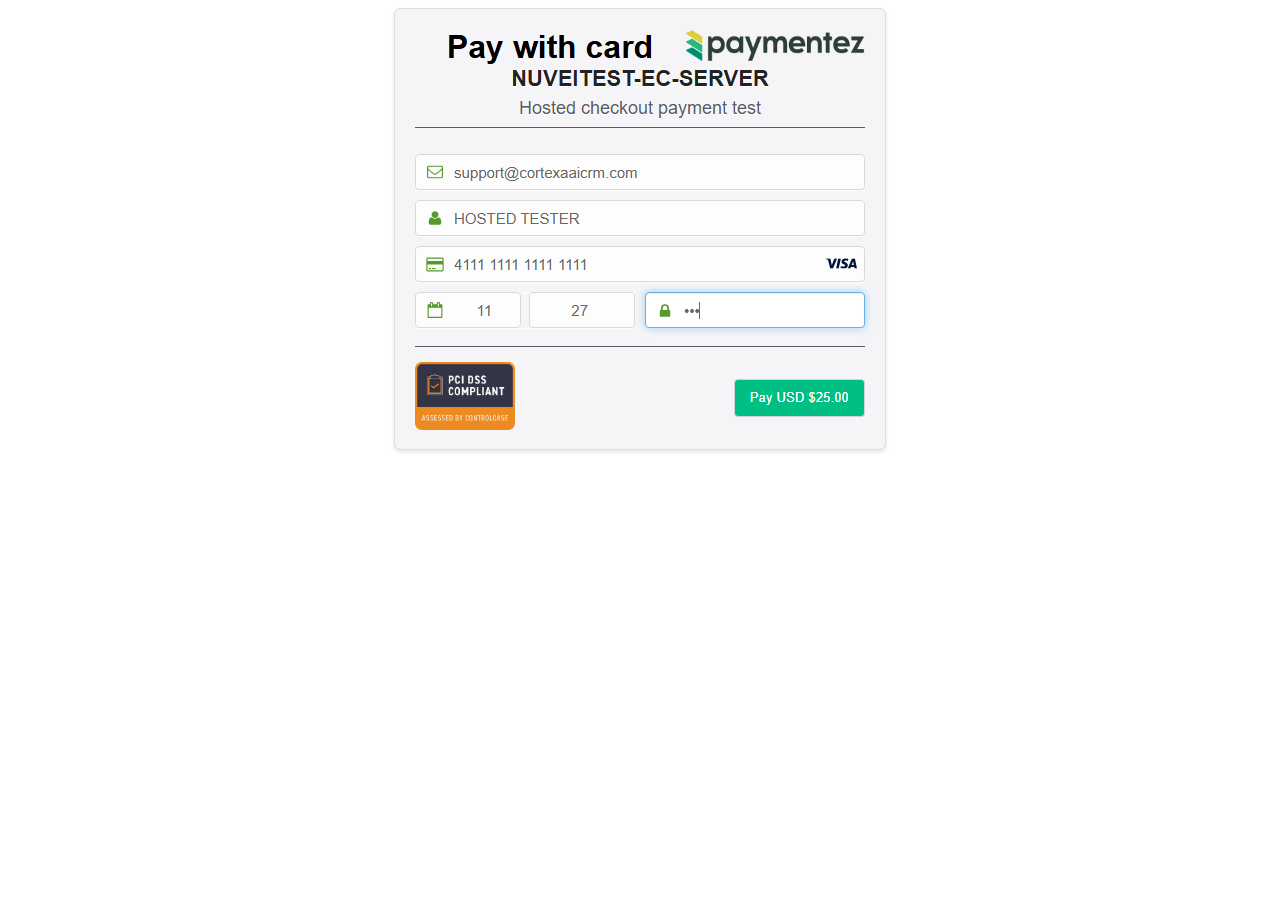
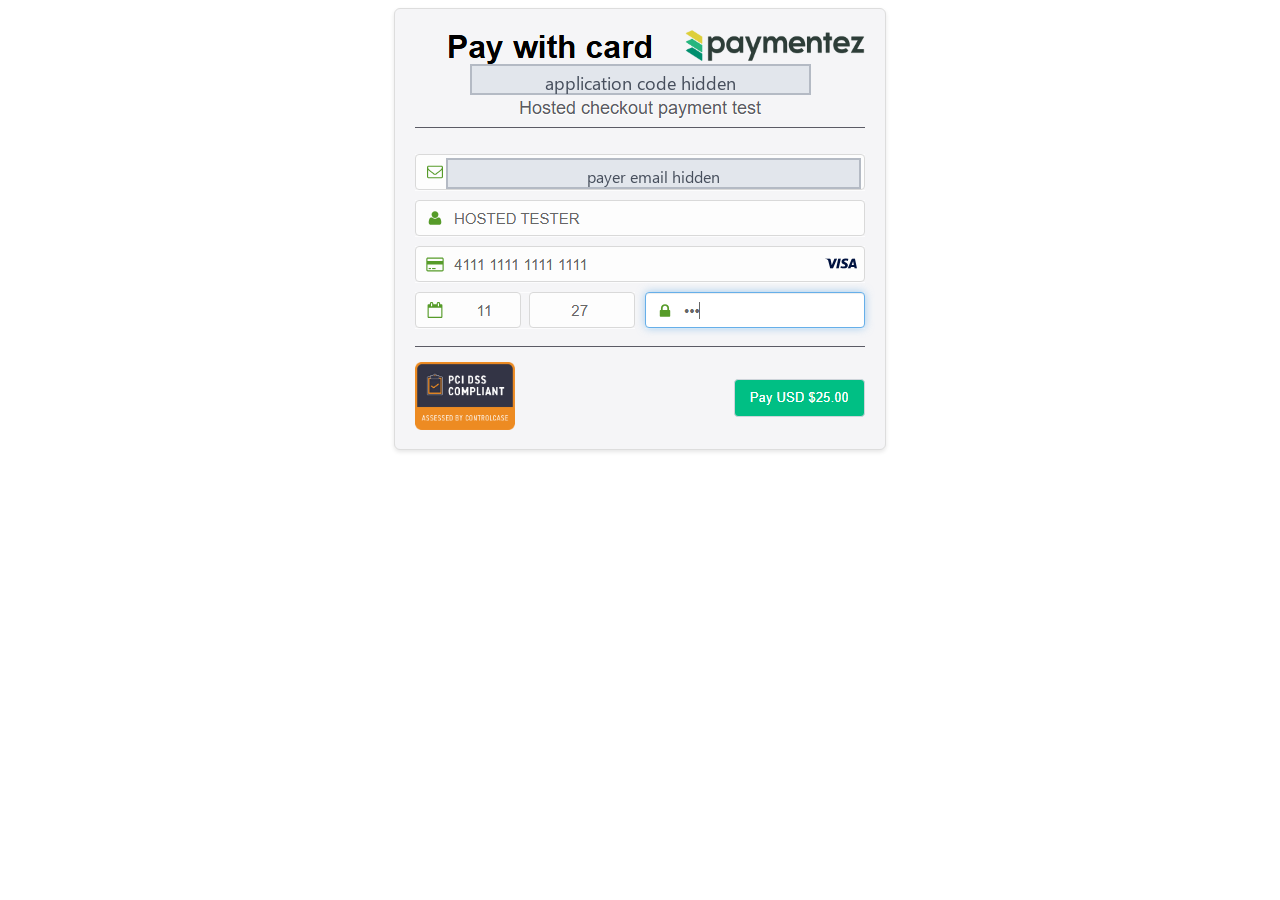
docs: hide private data in the Nuvei evidence, add card form language finding (#297)
The repository is public. Covered the live customer figures and list, a
third-party owner email, the Nuvei application code and the payer email in
the screenshots, and removed the application code and admin email from the
text. Recorded why the card holder and card number labels stay Spanish:
Nuvei's form script has them fixed, although the language we send reaches
Nuvei. Recorded that Add Card 3D Secure runs inside Nuvei's own form.

Changed region(s): [[0.3438, 0.1556, 0.6875, 0.2178], [0.375, 0.0622, 0.625, 0.1244]]

diff --git a/docs/nuvei/TEST_RESULTS.md b/docs/nuvei/TEST_RESULTS.md
@@ -14,11 +14,13 @@ What is still missing is on Nuvei's side and is listed at the end of this docume
 
 Everything you asked for is implemented. What remains untested is also listed at the end, with the reason.
 
+The subscription flow, activation now and monthly charges after the trial, uses Add Card tokenization and debit with the stored token. Nuvei Checkout is used for one time payments.
+
 ## Components and their state
 
 | Component | State | Evidence |
 |---|---|---|
-| Nuvei Checkout for one time payments, init a reference | WORKING | hosted page renders with our application code, description and amount, screenshot HOSTED_checkout |
+| Nuvei Checkout for one time payments, init a reference | WORKING | hosted page renders with our application, the description and the amount, screenshot nuvei-hosted-checkout-payment |
 | Checkout payment confirmed by the signed callback | PASS | |
 | Checkout payment with a tampered amount refused | PASS | |
 | Checkout payment declined is recorded as declined | PASS | |
@@ -46,24 +48,27 @@ Everything you asked for is implemented. What remains untested is also listed at
 | Link to Pay, refundable through the Refund method | PASS | recorded as a transaction |
 | Credentials only in backend environment variables | PASS | the browser receives only the publishable tokenization key |
 | Access control, administrators exempt from all customer billing checks | PASS | each role tested separately |
+| Checkout text follows the address, English, Spanish and Portuguese | PASS | /checkout, /es/checkout and /pt/checkout, screenshots checkout-english, checkout-spanish, checkout-portuguese |
+| Page language sent to Nuvei Checkout and to Nuvei's card form | PASS | Nuvei serves its card form page marked with the language we send |
+| Card holder and card number labels in the page language | BLOCKED BY NUVEI | fixed in Spanish inside Nuvei's form script, see below |
 
 Automated suite on the final build: 37 of 37 payment checks, plus the Checkout, Link to Pay, Verify, Delete Card and access control checks.
 
 ## The two hosted pages, tested by paying on them
 
-Nuvei Checkout. Our backend creates the reference and Nuvei returns the hosted page. The page renders correctly with the application code, the order description and the amount. A test card was entered on that page and submitted, and Nuvei's own processing endpoint accepted it and answered 200. The page then waits for Nuvei to notify the merchant, which happens through the callback URL. Until Nuvei registers our callback URL on the application, that last notification cannot reach us. Our side of it is already proven: a correctly signed callback for a Checkout payment marks it paid, sends the payer the confirmation email, rejects a tampered amount and ignores a replay. Screenshot HOSTED_checkout_filled.
+Nuvei Checkout. Our backend creates the reference and Nuvei returns the hosted page. The page renders correctly with our application, the order description and the amount. A test card was entered on that page and submitted, and Nuvei's own processing endpoint accepted it and answered 200. The page then waits for Nuvei to notify the merchant, which happens through the callback URL. Until Nuvei registers our callback URL on the application, that last notification cannot reach us. Our side of it is already proven: a correctly signed callback for a Checkout payment marks it paid, sends the payer the confirmation email, rejects a tampered amount and ignores a replay. Screenshot nuvei-hosted-checkout-payment.
 
-Link to Pay. Our backend creates the order and Nuvei returns an order id and a payment URL. Opening that URL on Nuvei's own site returns a 404 page, "Página no encontrada". This was checked repeatedly with fresh links and also by calling Nuvei directly rather than through our code. The reason is almost certainly that the Link to Pay application in your email, FFWSTG-EC-SERVER, is not activated, so the order is created under the cards application, which is not provisioned to serve the link. Screenshot LINKTOPAY_404.
+Link to Pay. Our backend creates the order and Nuvei returns an order id and a payment URL. Opening that URL on Nuvei's own site returns a 404 page, "Página no encontrada". This was checked repeatedly with fresh links and also by calling Nuvei directly rather than through our code. The reason is almost certainly that the Link to Pay application from your email is not activated, so the order is created under the cards application, which is not provisioned to serve the link. Screenshot link-to-pay-404.
 
 ## Still needed from Nuvei
 
-The Link to Pay credentials in your email, application FFWSTG-EC-SERVER, are rejected by Nuvei with the message Application not found, and the links created under the cards application return a 404 page. This was tested directly against Nuvei's Link to Pay endpoint. Link to Pay works today through the cards application, which Nuvei accepts. Please ask Nuvei to activate the Link to Pay application; the code already supports a separate application and switching takes one minute.
+The Link to Pay credentials in your email are rejected by Nuvei with the message Application not found, and the links created under the cards application return a 404 page. This was tested directly against Nuvei's Link to Pay endpoint. Link to Pay works today through the cards application, which Nuvei accepts. Please ask Nuvei to activate the Link to Pay application; the code already supports a separate application and switching takes one minute.
 
 The 3D Secure challenge screen cannot be triggered on this staging application. Nuvei's own 3D Secure test cards return a plain approval. Nuvei needs to enable 3D Secure on the staging application or provide a card that is enrolled.
 
-Nuvei's compatibility table marks Add Card as 3D Secure compatible, but their browser tokenization library exposes no 3D Secure parameters. Please ask Nuvei whether Add Card 3D Secure is required for this account and how they expect it to be called.
+Nuvei's compatibility table marks Add Card as 3D Secure compatible. On Add Card, Nuvei's own card form sends the 3D Secure browser data and runs any verification step inside the form, so there is nothing for the merchant to pass. Please ask Nuvei to confirm it is active for this account.
 
-The card form labels are in Spanish. This is a setting on the Nuvei merchant account.
+The card holder and card number labels read Spanish on every checkout language. Our checkout sends the page language, en, es or pt, to Nuvei's card form, and Nuvei serves the form page marked with that language. The labels stay Spanish because Nuvei's form script, payment_2.14.9, has them fixed as "Nombre del titular" and "Número de tarjeta" and does not translate them. Only Nuvei can change that script. The form sits inside Nuvei's secure frame, so we cannot change it from our side.
 
 Production credentials and Nuvei's production approval are required before any real card is charged.
 

diff --git a/docs/nuvei/README.md b/docs/nuvei/README.md
@@ -5,7 +5,9 @@ Last updated 16 September 2026.
 Start here:
 
 - [TEST_RESULTS.md](TEST_RESULTS.md) — every component, its state, what is still needed from Nuvei, and what is not yet tested with the reason.
-- [ADMIN_ACCESS_VERIFICATION.md](ADMIN_ACCESS_VERIFICATION.md) — the admin access check on support@cortexaaicrm.com, point by point, on the live site.
+- [ADMIN_ACCESS_VERIFICATION.md](ADMIN_ACCESS_VERIFICATION.md) — the admin access check on your administrator account, point by point, on the live site.
+
+This repository is public, so no credentials, application codes, customer data or private email addresses appear in these pages or screenshots.
 
 ## Evidence
 
@@ -13,7 +15,7 @@ Subscription activated on the approved checkout:
 
 ![Subscription activated](screenshots/subscription-activated.png)
 
-Checkout in English, Spanish and Portuguese. The card fields come from Nuvei's tokenization iframe, which supports English and Spanish only:
+Checkout in English, Spanish and Portuguese. The language comes from the address: /checkout, /es/checkout and /pt/checkout. The card fields come from Nuvei's tokenization form. We send that form the page language and Nuvei serves it marked with that language, but the card holder and card number labels are fixed in Spanish inside Nuvei's own script, so they read Spanish on all three:
 
 ![English](screenshots/checkout-english.png)
 ![Spanish](screenshots/checkout-spanish.png)
@@ -27,7 +29,7 @@ A refunded customer keeps their login on the free tier and can subscribe again:
 
 ![Refunded customer keeps access](screenshots/refunded-customer-keeps-access.png)
 
-A card payment entered and submitted on Nuvei's own hosted Checkout page:
+A card payment entered and submitted on Nuvei's own hosted Checkout page. The application code and the payer email are hidden:
 
 ![Nuvei hosted checkout](screenshots/nuvei-hosted-checkout-payment.png)
 
@@ -35,7 +37,7 @@ The Link to Pay link Nuvei returns currently opens a 404 page on Nuvei's own sit
 
 ![Link to Pay 404](screenshots/link-to-pay-404.png)
 
-Admin area working for support@cortexaaicrm.com, before and after signing out and back in:
+Admin area working for your administrator account, before and after signing out and back in. Customer figures and details are hidden:
 
 ![Admin area](screenshots/admin-area-working.png)
 ![Admin after re-login](screenshots/admin-after-relogin.png)
@@ -43,7 +45,8 @@ Admin area working for support@cortexaaicrm.com, before and after signing out an
 ## What we need from Nuvei
 
 1. Register the callback URL on the merchant application: `https://backend.cortexaaicrm.com/api/nuvei/callback`
-2. Activate the Link to Pay application. The credentials supplied, FFWSTG-EC-SERVER, are rejected with "Application not found", and links created under the cards application return 404.
+2. Activate the Link to Pay application. The Link to Pay credentials you sent are rejected with "Application not found", and links created under the cards application return 404.
 3. Enable 3D Secure on the staging application, or provide a 3DS enrolled card, plus a Diners card that asks for a one time password.
-4. Switch the card form labels to English if preferred. They are set on the merchant account.
-5. Production credentials and production approval before any real card is charged.
+4. Fix the card form labels. Our checkout sends the page language, en, es or pt, and Nuvei's form page is served with that language, but Nuvei's form script, payment_2.14.9, has the card holder and card number labels fixed in Spanish, "Nombre del titular" and "Número de tarjeta". Only Nuvei can change that script.
+5. Confirm that 3D Secure on Add Card is active for this account. Nuvei's own card form sends the 3D Secure browser data and runs any verification step inside the form, so there is nothing for the merchant to pass.
+6. Production credentials and production approval before any real card is charged.

diff --git a/docs/nuvei/ADMIN_ACCESS_VERIFICATION.md b/docs/nuvei/ADMIN_ACCESS_VERIFICATION.md
@@ -1,7 +1,8 @@
-# Admin access verification, support@cortexaaicrm.com
+# Admin access verification, your administrator account
 
 Date: 16 September 2026
 Environment tested: the live site, https://www.cortexaaicrm.com, with the live backend at https://backend.cortexaaicrm.com/api
+Account: the exact administrator email you gave us. It is not written here because this repository is public.
 Method: a clean browser session, no cached data, signing in with the account itself.
 
 ## Result of each point you listed
@@ -20,13 +21,13 @@ Method: a clean browser session, no cached data, signing in with the account its
 
 Signed in at https://www.cortexaaicrm.com/sign-in and landed on https://www.cortexaaicrm.com/dashboard/admin/listings. No checkout.
 
-Opened https://www.cortexaaicrm.com/dashboard/admin/customers. The Admin area opened with live data, 426 registered accounts, 47 active customers, monthly recurring 6,309 dollars. Screenshot CLIENT_ADMIN_2_admin_customers.
+Opened https://www.cortexaaicrm.com/dashboard/admin/customers. The Admin area opened with the live customer list and figures. Screenshot [admin-area-working](screenshots/admin-area-working.png), with the data hidden.
 
-Refreshed that page. Stayed on https://www.cortexaaicrm.com/dashboard/admin/customers. Screenshot CLIENT_ADMIN_3_after_refresh.
+Refreshed that page. Stayed on https://www.cortexaaicrm.com/dashboard/admin/customers.
 
 Cleared the recent payment marker and opened https://www.cortexaaicrm.com/dashboard. Landed on the admin listings page. No checkout.
 
-Signed out completely, cleared the browser storage, and signed in again. Landed on https://www.cortexaaicrm.com/dashboard/admin/listings. No checkout. Screenshot CLIENT_ADMIN_4_admin_listings.
+Signed out completely, cleared the browser storage, and signed in again. Landed on https://www.cortexaaicrm.com/dashboard/admin/listings. No checkout. Screenshot [admin-after-relogin](screenshots/admin-after-relogin.png), with owner details hidden.
 
 Eleven checks, eleven passed.
 
@@ -36,6 +37,6 @@ Two possible reasons, both easy to rule out.
 
 First, an old page still open in your browser. The application only loads new code on a fresh page load, so please sign out, press control and F5 together to force a reload, then sign in again.
 
-Second, the address you are using. The fix is live on www.cortexaaicrm.com and on cortexaaicrm.com. There is a second site at listoqasa.netlify.app that is still running an older build and does not have the fix. If you or your team reach the admin area through that address, you would still see the old behaviour. Tell me if that site is still in use and I will update it as well.
+Second, the address you are using. The fix is live on www.cortexaaicrm.com and on cortexaaicrm.com. There is a second site at listoqasa.netlify.app that is still running an older build and does not have the fix. If you or your team reach the admin area through that address, you would still see the old behaviour. That site is not in the accounts we were given, so whoever manages it needs to redeploy it from the main branch, or retire it.
 
 If neither applies, send me a screenshot of the address bar at the moment you are redirected and I will trace that exact request.
